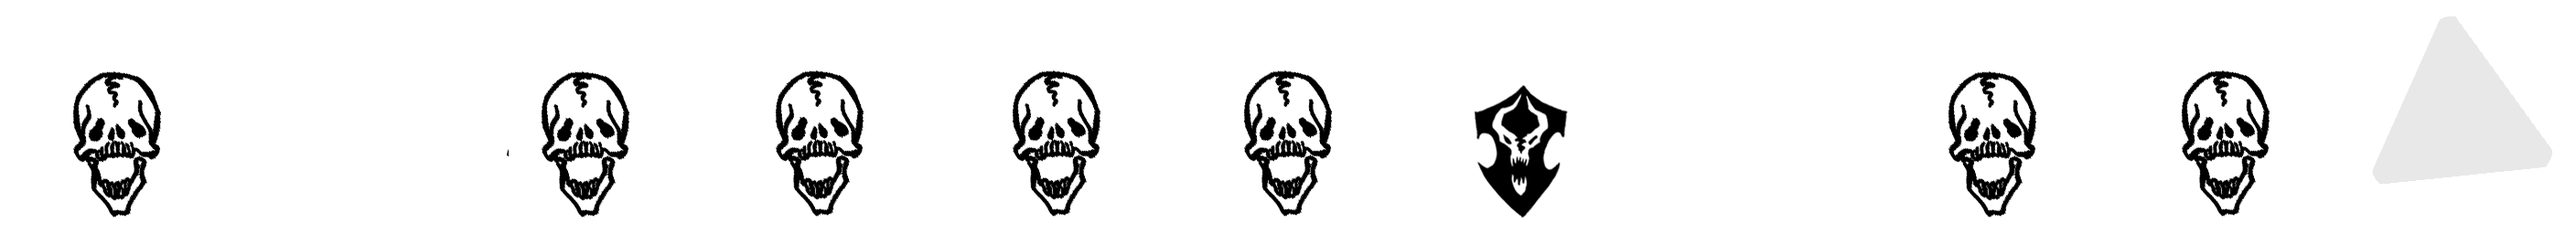
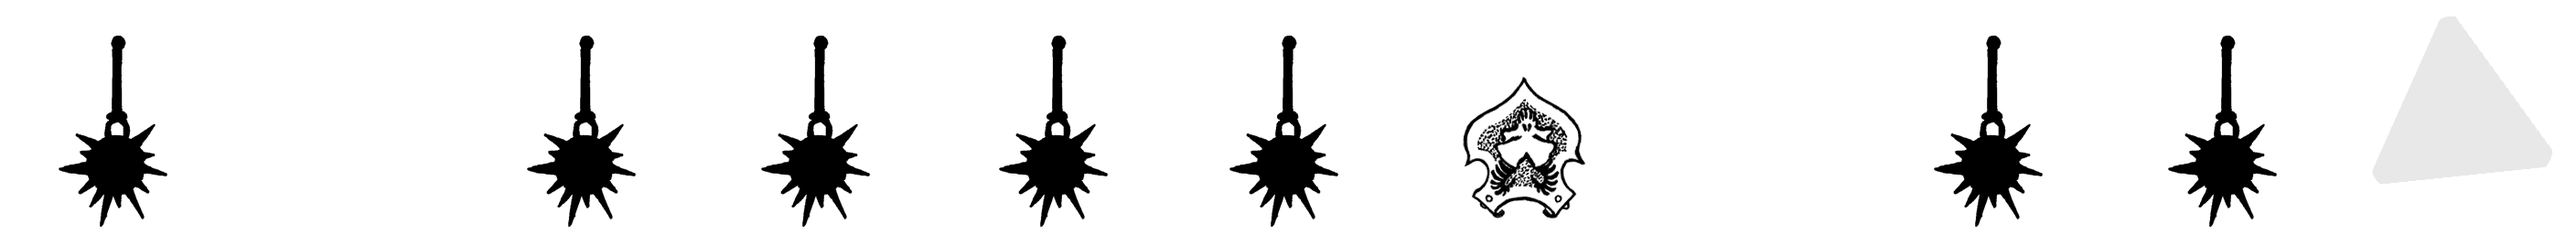
New dice graphics, old set as an option in the info panel

diff --git a/js/main.js b/js/main.js
@@ -1,9 +1,15 @@
 import { DiceScene, CONFIG } from './scene.js';
-import { preloadKind } from './facepreview.js';
-import { Picker, DICE_TYPES, renderSummary } from './ui.js';
+import { preloadKind, resetTextureCache } from './facepreview.js';
+import { Picker, DICE_TYPES, renderSummary, resetImageCache } from './ui.js';
 import { createShakeDetector } from './shake.js';
 
 const ASSETS = 'assets/dice';
+
+// Always starts on the standard set; the choice is not remembered between loads.
+const DICE_SETS = {
+  standard: { dir: 'assets/dice', label: 'Revert to old dice graphics', other: 'old' },
+  old: { dir: 'assets/dice/old', label: 'Use standard Umbraal dice graphics', other: 'standard' },
+};
 const TABLE_TEXTURE = `${ASSETS}/table_surface.png`;
 const FONT_FAMILY = 'Umbraal';
 
@@ -303,6 +309,56 @@ async function main() {
     shakeBtn.disabled = false;
     shakeBtn.setAttribute('aria-pressed', result === 'on' ? 'true' : 'false');
     if (result !== 'on') showNotice(SHAKE_TROUBLE[result] || SHAKE_TROUBLE.denied);
+  });
+
+  // ---- dice artwork set ----
+  const diceSetBtn = document.getElementById('dice-set-toggle');
+  let diceSet = 'standard';
+  diceSetBtn.textContent = DICE_SETS[diceSet].label;
+
+  async function switchDiceSet() {
+    if (state.rolling || diceSetBtn.disabled) return;
+    const wanted = DICE_SETS[diceSet].other;
+    const previous = diceSet;
+
+    diceSetBtn.disabled = true;
+    try {
+      resetTextureCache();
+      resetImageCache();
+      await Promise.all(DICE_TYPES.map((d) => preloadKind(d.kind, DICE_SETS[wanted].dir, fontFamily)));
+      await scene.setAssetsDir(DICE_SETS[wanted].dir);
+      diceSet = wanted;
+    } catch (err) {
+      // Most likely the folder or a file is missing. Put everything back.
+      resetTextureCache();
+      resetImageCache();
+      await Promise.all(DICE_TYPES.map((d) => preloadKind(d.kind, DICE_SETS[previous].dir, fontFamily)));
+      await scene.setAssetsDir(DICE_SETS[previous].dir);
+      diceSet = previous;
+      showNotice(['That artwork could not be loaded.',
+        `Check that ${DICE_SETS[wanted].dir}/ holds the same face files as assets/dice/. ${err.message}`]);
+    }
+    diceSetBtn.textContent = DICE_SETS[diceSet].label;
+    diceSetBtn.disabled = false;
+    picker.repaint();
+    if (summaryOpen()) renderSummary(summaryBody, state.results);
+  }
+
+  // pointerdown, not click: the capture-phase dismiss hides the panel during
+  // this same event, and a click is never dispatched to a display:none button.
+  // The pointerdown path was fixed when the event was dispatched, so this
+  // still fires -- after the panel has closed, which is what we want.
+  diceSetBtn.addEventListener('pointerdown', (event) => {
+    event.preventDefault();
+    switchDiceSet();
+  });
+
+  // Keyboard activation raises no pointer event, so close the panel here.
+  diceSetBtn.addEventListener('keydown', (event) => {
+    if (event.key !== 'Enter' && event.key !== ' ') return;
+    event.preventDefault();
+    closeTop();
+    switchDiceSet();
   });
 
   let resizeTimer = null;

diff --git a/js/scene.js b/js/scene.js
@@ -341,6 +341,36 @@ export class DiceScene {
     this.materialCache.set(kind, materials);
   }
 
+  /**
+   * Points at a different artwork folder and rebuilds the materials. Dice
+   * already settled on the table are re-skinned in place, so the switch does
+   * not disturb a roll that has been read but not cleared.
+   *
+   * The caller must clear the texture caches in facepreview.js first,
+   * otherwise ensureKind just hands back what it built from the old folder.
+   */
+  async setAssetsDir(dir) {
+    if (dir === this.assetsDir) return;
+    this.assetsDir = dir;
+
+    for (const materials of this.materialCache.values()) {
+      for (const material of materials) {
+        if (material.map) material.map.dispose();
+        material.dispose();
+      }
+    }
+    this.materialCache.clear();
+
+    for (const kind of new Set(this.world.dice.map((d) => d.kind))) {
+      await this.ensureKind(kind);
+    }
+    this.world.dice.forEach((die, i) => {
+      const mesh = this.meshes[i];
+      if (mesh) mesh.material = this.materialCache.get(die.kind);
+    });
+    this.requestRender();
+  }
+
   _makeDieMesh(kind) {
     const { faces, edges } = this._geometryFor(KIND_TO_TYPE(kind));
     const mesh = new THREE.Mesh(faces, this.materialCache.get(kind));

diff --git a/css/app.css b/css/app.css
@@ -480,6 +480,27 @@ body {
   color: rgba(232, 220, 192, 0.5);
 }
 
+.dice-set-toggle {
+  flex: 0 0 auto;
+  width: 100%;
+  margin-top: 0.9rem;
+  padding: 0.7rem 0 0;
+  border: 0;
+  border-top: 1px solid rgba(176, 138, 52, 0.22);
+  background: none;
+  cursor: pointer;
+  font-family: inherit;
+  font-size: 0.78rem;
+  line-height: 1.4;
+  color: var(--brass);
+  text-decoration: underline;
+  text-underline-offset: 2px;
+  transition: color 120ms ease, opacity 120ms ease;
+}
+
+.dice-set-toggle:hover { color: var(--bone); }
+.dice-set-toggle:disabled { cursor: default; opacity: 0.45; }
+
 .fallback {
   position: fixed;
   inset: 0;

diff --git a/js/ui.js b/js/ui.js
@@ -51,6 +51,10 @@ const silhouette = (kind) => imgFrom(`sil:${kind}`, () => {
   return c;
 });
 
+export function resetImageCache() {
+  urlCache.clear();
+}
+
 export class Picker {
   constructor(panel, rowsEl, backdrop) {
     this.panel = panel;
@@ -93,6 +97,12 @@ export class Picker {
   hide() {
     this.panel.hidden = true;
     this.backdrop.hidden = true;
+  }
+
+  // Rebuilds every tile from the current artwork. Counts live in this.counts
+  // and _paintSlot re-reads them, so a selection in progress is preserved.
+  repaint() {
+    this._build();
   }
 
   reset() {

diff --git a/js/facepreview.js b/js/facepreview.js
@@ -72,6 +72,12 @@ export async function preloadKind(kind, assetsDir, fontFamily) {
 
 export const texturesFor = (kind) => textureCache.get(kind);
 
+// Drops every built texture so the next preload reads from a different folder.
+export function resetTextureCache() {
+  textureCache.clear();
+  faceCache.clear();
+}
+
 // readFaceValue returns material - 1, so the texture for a value is always
 // at material value + 1 regardless of capCount.
 export function faceImage(kind, value) {

diff --git a/index.html b/index.html
@@ -58,6 +58,9 @@
     </table>
     <p class="fair-note">* based on dice physics.</p>
   </div>
+  <!-- Outside #about-body on purpose: that div is replaced wholesale each time
+       info.html is fetched, which would take any button inside it with it. -->
+  <button id="dice-set-toggle" class="dice-set-toggle" type="button"></button>
 </div>
 
 <div id="notice" class="panel about" hidden role="dialog" aria-label="Notice">
